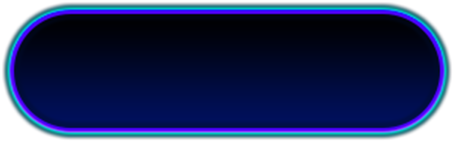
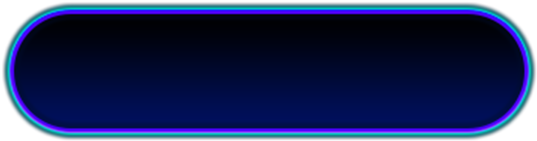
header 部分更新素材 + 修正樣式

Changed region(s): [[0.0, 0.0, 1.0, 0.9929]]

diff --git a/src/app/component/header/header.component.scss b/src/app/component/header/header.component.scss
@@ -17,18 +17,18 @@
   background-position: center;
 
   position: relative;
-  height: 50%;
-  width: 26.4%;
+  height: 53%;
+  width: 28%;
   margin: 0 0 0 2%;
 
   align-items: center;
   justify-content: space-between;
 
   #iconId {
-    height: 53%;
-    margin-left: 9.4%;
+    width: 13%;
+    margin-left: 9.6%;
     position: absolute;
-    top: 27.2%;
+    top: 28.6%;
   }
   #accountText {
     position: absolute;
@@ -43,22 +43,21 @@
 
 
 #credit-bg {
-  background: url('/assets/imgs/picCreditFrame@2x.png');
+  background: url('/assets/imgs/picCreditFrame@3x.png');
   background-size: 100%100%;
   background-repeat: no-repeat;
   background-position: center;
 
   position: relative;
   height: 71%;
-  width: 42%;
-  max-width: 190px;
-  margin: 0 0 0 6.5%;
+  width: 50%;
+  margin: 0 0 0 7.4%;
 
   align-items: center;
   justify-content: space-between;
   #iconCredit  {
     height: 55.3%;
-    margin-left: 7.3%;
+    margin-left: 8.1%;
     position: absolute;
     top: 22.3%;
   }
@@ -81,8 +80,8 @@
   outline: none;
   border: 0px;
 
-  margin: 0 0 0 2.4%;
-  width: 7.22%;
+  margin: 3px 0 0 2.6%;
+  width: 7.74%;
 
   display: flex;
   flex-direction: row;
@@ -91,19 +90,19 @@
 
   .settingImgNormal {
     width: 100%;
-    content: url('/assets/imgs/btnSettingMenuNormal@2x.png');
+    content: url('/assets/imgs/btnSettingMenuNormal@3x.png');
   }
   .settingImgPressed {
     width: 129%;
     margin-bottom: 2px;
     z-index: 11;
-    content: url('/assets/imgs/btnSettingMenuPressed@2x.png');
+    content: url('/assets/imgs/btnSettingMenuPressed@3x.png');
   }
 }
 
 .setting-menu-container {
   position: absolute;
-  top: 3%;
+  top: 4.5%;
   height: 90%;
   width: 95%;
   flex-wrap: nowrap;
@@ -134,13 +133,13 @@
 
   img {
     width: 100%;
-    content: url('/assets/imgs/btnLogoutNormal@2x.png')
+    content: url('/assets/imgs/btnLogoutNormal@3x.png')
   }
   &:active {
     img {
       width: 125%;
       margin-bottom: 2px;
-      content: url('/assets/imgs/btnSettingLogoutPressed@2x.png')
+      content: url('/assets/imgs/btnSettingLogoutPressed@3x.png')
     }
   }
 }
@@ -164,11 +163,11 @@
   background-size: 100%100%;
   background-repeat: no-repeat;
   width: 52%;
-  padding-top: 60%;
+  padding-top: 61%;
   z-index: 11;
 
   position: absolute;
   top: 50px;
-  left: 38.5%;
+  left: 45.5%;
 }
 

diff --git a/src/app/component/header/header.component.html b/src/app/component/header/header.component.html
@@ -19,9 +19,6 @@
       }">
   </button>
 
-  <button class="no-padding" id="logoutButton" (click)="showLeaveBox()">
-    <img draggable="false" alt="leaveButton">
-  </button>
 
   <!-- poppup setting content padding-top: 11px;-->
   <div id="popper_content" [ngStyle]="{'display': showPopper === true ? 'block' : 'none'}" >

diff --git a/src/app/component/login/login.component.scss b/src/app/component/login/login.component.scss
@@ -107,7 +107,7 @@
   position: relative;
   flex-wrap: nowrap;
 
-  background: url('/assets/imgs/picIdFrame@3x.png') no-repeat;
+  background: url('/assets/imgs/picPasswordFrame@3x.png') no-repeat;
   background-size: 100%100%;
   background-position: center;
   #password {
